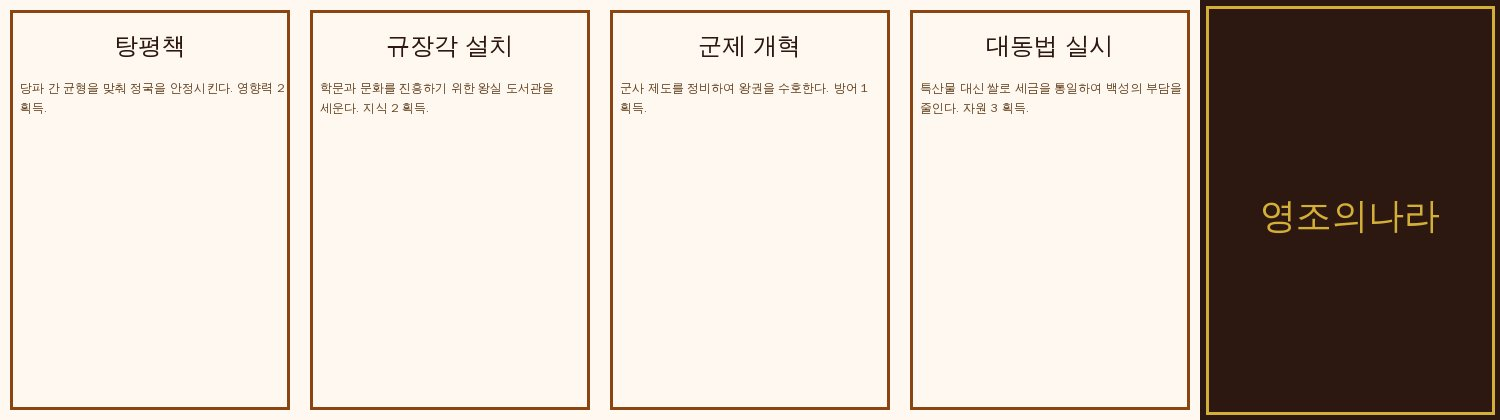
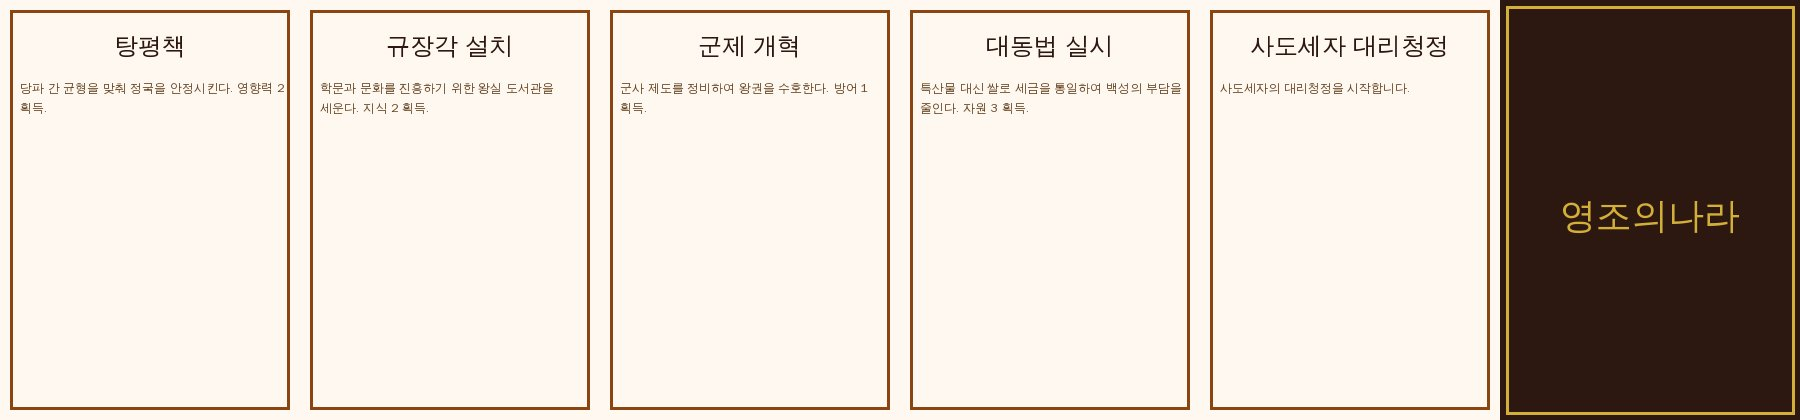
chore: rebuild TTS deploy assets [skip ci]

Changed region(s): [[0.0, 0.0, 1.0, 1.0], [0.0613, 0.0619, 0.1227, 0.1548]]

diff --git a/index.html b/index.html
@@ -171,7 +171,7 @@
 <header>
   <h1>영조의나라 — Tabletop Simulator 배포 파일</h1>
   <div class="meta">
-    빌드: 2026년 03월 24일 05:02:46 &nbsp;|&nbsp;
+    빌드: 2026년 03월 24일 05:11:06 &nbsp;|&nbsp;
     저장소: darkavengerk/aGameOfYJ @ master
   </div>
   <nav class="header-nav">
@@ -185,7 +185,7 @@
     <span class="stat-label">카드 시트</span>
   </div>
   <div class="stat">
-    <span class="stat-value">128</span>
+    <span class="stat-value">129</span>
     <span class="stat-label">총 카드 수</span>
   </div>
   <div class="stat">
@@ -231,7 +231,7 @@
         <div class="card-item">
           <div class="card-header">
             <span class="item-name">policy_cards</span>
-            <span class="item-badge">5×1 그리드 / 4장</span>
+            <span class="item-badge">6×1 그리드 / 5장</span>
           </div>
           <a href="deploy/images/policy_cards.jpg" target="_blank" title="클릭하면 원본 크기로 열림">
             <img src="deploy/images/policy_cards.jpg" alt="policy_cards" loading="lazy">

diff --git a/deploy/index.html b/deploy/index.html
@@ -171,7 +171,7 @@
 <header>
   <h1>영조의나라 — Tabletop Simulator 배포 파일</h1>
   <div class="meta">
-    빌드: 2026년 03월 24일 05:02:46 &nbsp;|&nbsp;
+    빌드: 2026년 03월 24일 05:11:06 &nbsp;|&nbsp;
     저장소: darkavengerk/aGameOfYJ @ master
   </div>
   <nav class="header-nav">
@@ -185,7 +185,7 @@
     <span class="stat-label">카드 시트</span>
   </div>
   <div class="stat">
-    <span class="stat-value">128</span>
+    <span class="stat-value">129</span>
     <span class="stat-label">총 카드 수</span>
   </div>
   <div class="stat">
@@ -231,7 +231,7 @@
         <div class="card-item">
           <div class="card-header">
             <span class="item-name">policy_cards</span>
-            <span class="item-badge">5×1 그리드 / 4장</span>
+            <span class="item-badge">6×1 그리드 / 5장</span>
           </div>
           <a href="images/policy_cards.jpg" target="_blank" title="클릭하면 원본 크기로 열림">
             <img src="images/policy_cards.jpg" alt="policy_cards" loading="lazy">
